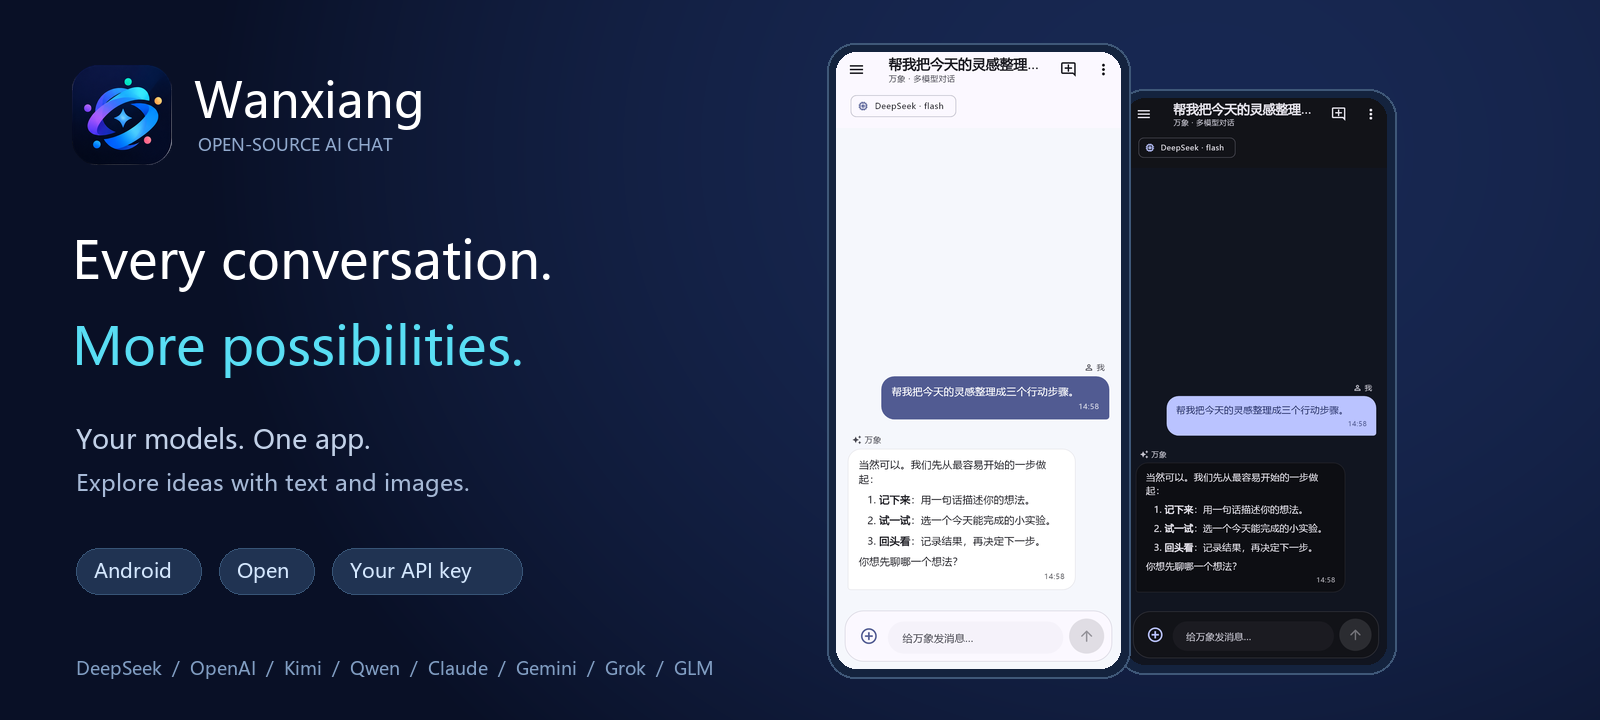
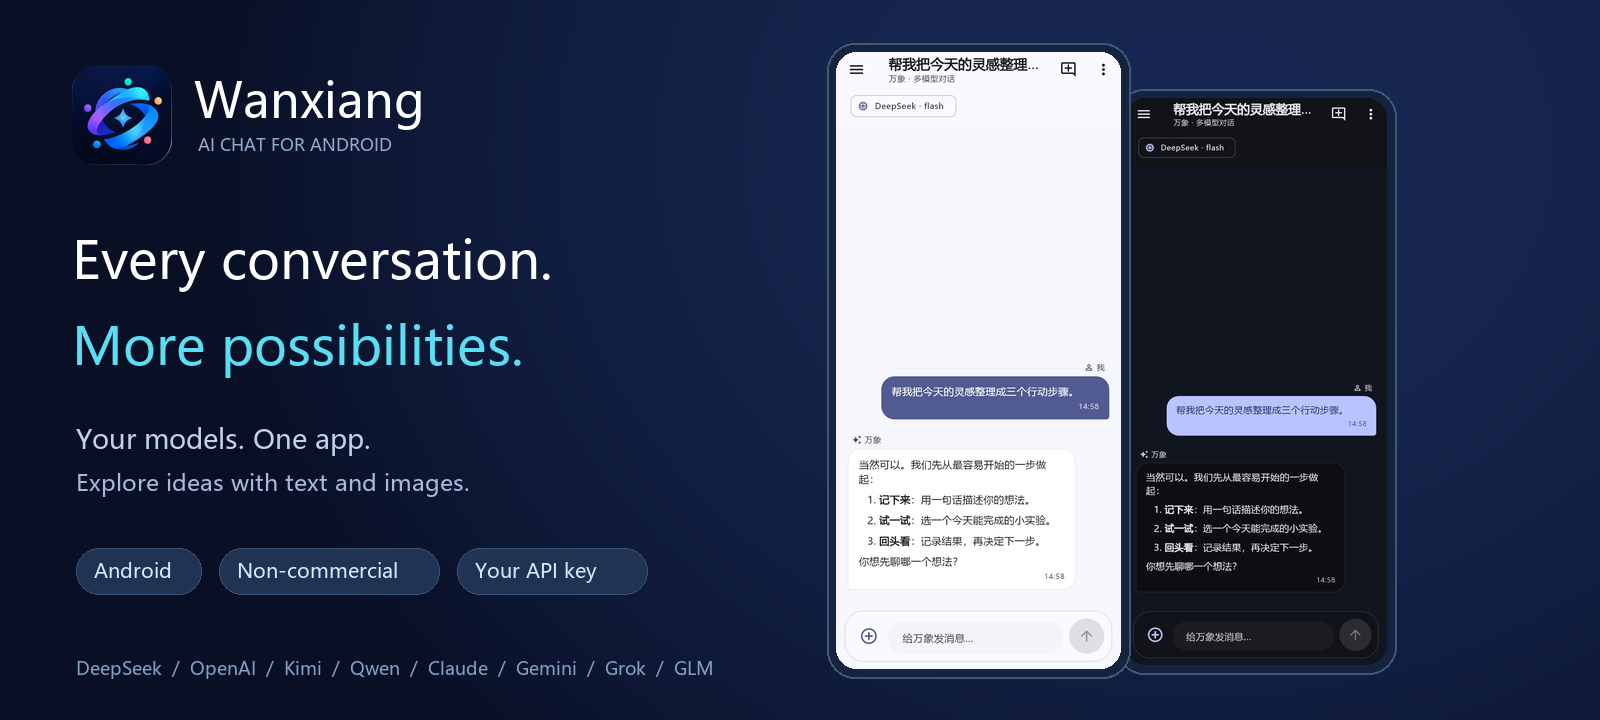
license: prohibit commercial use in subsequent versions

Changed region(s): [[0.1562, 0.7639, 0.4062, 0.825], [0.125, 0.1833, 0.25, 0.2139]]

diff --git a/README.md b/README.md
@@ -5,13 +5,13 @@
   <h1>Wanxiang · 万象</h1>
   <p><strong>English</strong> | <a href="README.zh-CN.md">简体中文</a></p>
   <p><strong>More models. More possibilities in every conversation.</strong></p>
-  <p>An open-source AI chat app for Android · Choose your models · Bring your own API key</p>
+  <p>A source-available AI chat app for Android · Choose your models · Bring your own API key</p>
   <p>
     <a href="https://github.com/tingwu-h/wanxiang-chat-app/releases/download/v1.2.0/wanxiang-v1.2.0.apk">Download APK</a> ·
     <a href="https://github.com/tingwu-h/wanxiang-chat-app/releases/tag/v1.2.0"><img src="https://img.shields.io/badge/version-v1.2.0-1677FF" alt="Version v1.2.0"></a>
     <img src="https://img.shields.io/badge/Android-7.0%2B-16C9B2" alt="Android 7.0 or later">
     <img src="https://img.shields.io/badge/Built_with-Flutter-28BCEF" alt="Built with Flutter">
-    <a href="LICENSE"><img src="https://img.shields.io/badge/License-MIT-8B5CF6" alt="MIT license"></a>
+    <a href="LICENSE"><img src="https://img.shields.io/badge/License-Non--Commercial-8B5CF6" alt="Non-commercial license"></a>
   </p>
   <p>
     <a href="https://github.com/tingwu-h/wanxiang-chat-app/releases/tag/v1.2.0">v1.2.0 Release</a> ·
@@ -28,7 +28,7 @@
 
 ## Meet Wanxiang
 
-**Wanxiang** is an open-source AI chat app for Android. It brings providers such as DeepSeek, OpenAI, Kimi, and Qwen into one app, so you can choose a model that fits your question and chat with text, images, and plain-text attachments.
+**Wanxiang** is a source-available AI chat app for Android. It brings providers such as DeepSeek, OpenAI, Kimi, and Qwen into one app, so you can choose a model that fits your question and chat with text, images, and plain-text attachments.
 
 Whether you are organizing an idea, discussing code, or asking about an image, Wanxiang keeps everyday conversations within reach: configure your providers, switch models when needed, and keep your discussions in local conversation history.
 
@@ -126,7 +126,13 @@ As of **October 3, 2026**, static analysis passed, **51 tests passed**, and the 
 
 Report bugs and suggest improvements through [Issues](https://github.com/tingwu-h/wanxiang-chat-app/issues), or contribute a pull request. Include the app version, Android version, provider, model ID, and reproduction steps in bug reports. Run static analysis and relevant tests before submitting code.
 
-The logo was provided by the project owner; brand assets are in [assets/branding](assets/branding). This project is licensed under the [MIT License](LICENSE).
+The logo was provided by the project owner; brand assets are in [assets/branding](assets/branding).
+
+## License
+
+**Commercial use is prohibited.** This project uses the [Wanxiang Non-Commercial License 1.0](LICENSE). You may use, study, modify, and redistribute it for non-commercial purposes under its terms, retaining copyright and license notices. The restriction also applies to modified versions.
+
+This is source-available software with a non-commercial restriction. Third-party components retain their own licenses. Previously published MIT-licensed versions remain under their original terms; this change applies to versions carrying the new license.
 
 <div align="center">
   <br>
